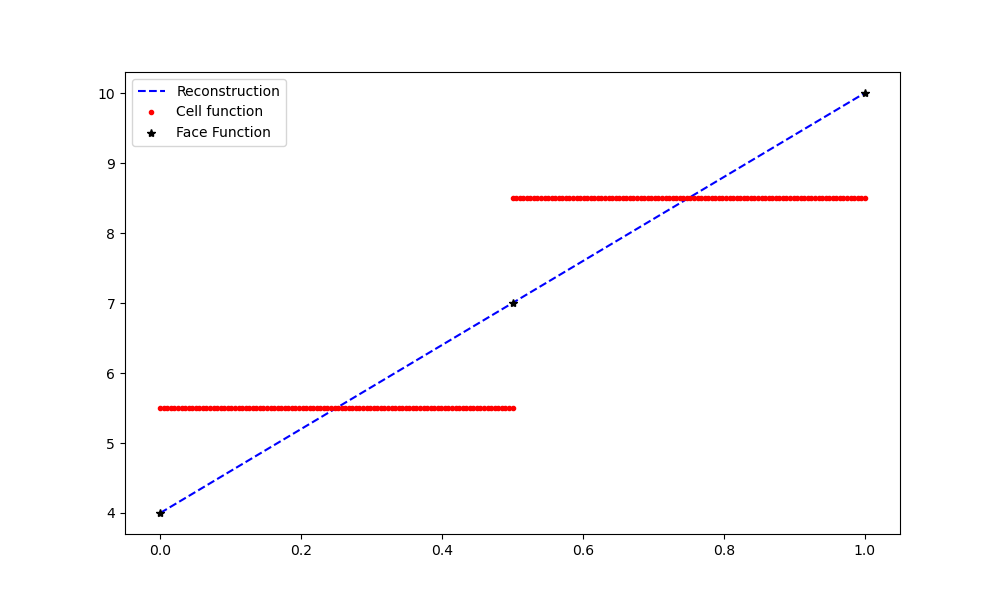
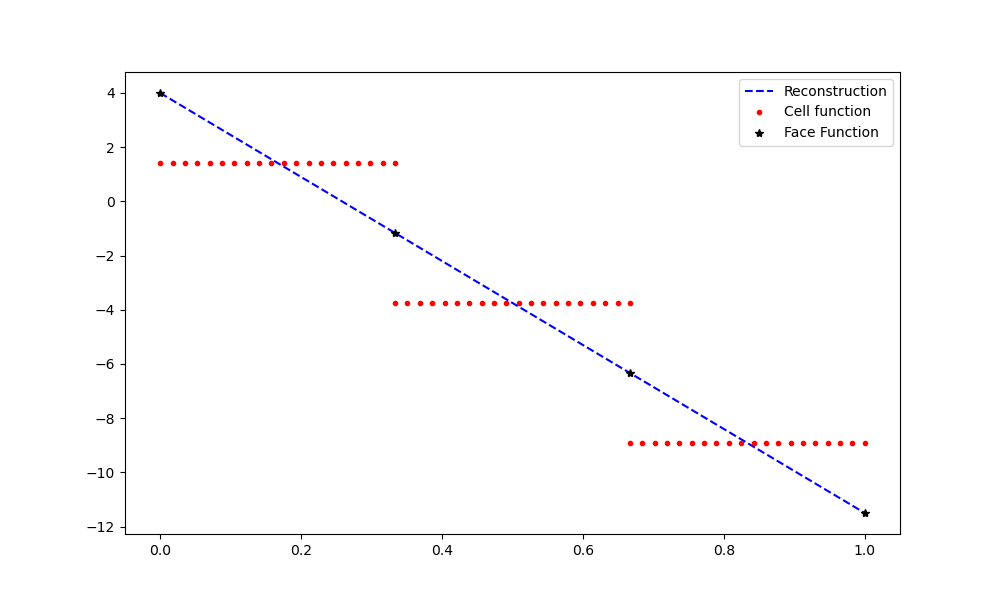
Added Neumann BC + cleaned up

diff --git a/main.py b/main.py
@@ -21,6 +21,12 @@ class ProblemDefinition:
         self.n_dofs = 0
         self.n_dofs_super = 0
 
+        self.Dirichlet_0 = None
+        self.Dirichlet_1 = None
+        self.Neumann_1 = None
+
+        self.Source_func = None
+
     def initialize(self):
         self.compute_element_size()
         self.compute_n_dofs()
@@ -414,19 +420,31 @@ def HHO_Assemble_Stiffness(pd):
     Stiffness = A + S
     return Stiffness
 
-def HHO_Apply_Dirichlet_BC(pd,Stiffness,Dirichlet_0,Dirichlet_1):
+def HHO_Apply_Neumann_BC(pd,rhs_vector):
+    # Enforce Neumann BC at the end    
+    if pd.Neumann_1 is not None:
+        rhs_vector[-1] = pd.Neumann_1
+    return rhs_vector
+
+def HHO_Apply_Dirichlet_BC(pd,Stiffness,rhs_vector):
     # Enforce Dirichlet BC by constraint
-    rhs_vector = np.zeros(pd.n_dofs)
-    if Dirichlet_0 is not None:
+    if pd.Dirichlet_0 is not None:
         dof_0 = get_face_dofs(pd,elem=0)[0]
-        rhs_vector[dof_0] = Dirichlet_0 
+        rhs_vector[dof_0] = pd.Dirichlet_0 
         Stiffness[dof_0,:] = 0 
         Stiffness[dof_0,dof_0] = 1        
-    if Dirichlet_1 is not None:
-        rhs_vector[-1] = Dirichlet_1
+    if pd.Dirichlet_1 is not None:
+        rhs_vector[-1] = pd.Dirichlet_1
         Stiffness[-1,:] = 0
         Stiffness[-1,-1] = 1
     return Stiffness, rhs_vector
+
+def HHO_Apply_Source(pd,rhs_vector):
+    # Enforce Dirichlet BC by constraint
+    if pd.Source_func is not None:
+        #dof_0 = get_face_dofs(pd,elem=0)[0]
+        rhs_vector[0] = pd.Source_func(0) 
+    return rhs_vector
 
 def interpolate(pd,sol,n_sampling,is_super = False):
     # Interpolate on mesh a solution vector (super-convergent or not)
@@ -449,6 +467,22 @@ def interpolate(pd,sol,n_sampling,is_super = False):
     
     return X, V
 
+def Solve_HHO_Problem(pd):
+    # SINGLE RUN WITH NEUMAN OR DIRICHLET BC
+    Rhs = np.zeros(pd.n_dofs)
+    Stiffness = HHO_Assemble_Stiffness(pd)
+    Stiffness, Rhs  = HHO_Apply_Dirichlet_BC(pd, Stiffness, Rhs)
+    Rhs  = HHO_Apply_Neumann_BC(pd, Rhs)
+    Rhs  = HHO_Apply_Source(pd, Rhs)
+
+    sol = np.linalg.solve(Stiffness,Rhs)
+    sol_hho = hho_vector_from_sol(pd,sol)
+    
+    condition_number = np.linalg.cond(Stiffness)
+    print(f"Stiffness matrix condition number: {condition_number}")   
+    
+    return sol, sol_hho
+
 ###############################################################
 ###############################################################
 ###############################################################
@@ -459,15 +493,17 @@ if __name__=='__main__':
     # TEST_ID = 0 --> OPERATORS CHECK (TARGET FUNCTION) ON A SINGLE RUN - FIG 8.9
     # TEST_ID = 1 --> OPERATORS CHECK (TARGET FUNCTION) - CONVERGENCE
 
-    # Dirichlet problem
+    # Solving real 1D problems
     # TEST_ID = 2 --> DIRICHLET PROBLEM, SINGLE RUN
-
-    # To do next: 
-    # Neuman BCs 
-    # volume source
-    # Convergence studies on more complex solutions
+    # TEST_ID = 3 --> DIRICHLET-NEUMANN PROBLEM, SINGLE RUN
+    # TEST_ID = 4 --> DIRICHLET-NEUMANN PROBLEM + SOURCE TERM, SINGLE RUN
     
-    TEST_ID = 2
+    # To do next: 
+    # - volume source
+    # - Convergence studies on more complex solutions
+    # - static condensation 
+    
+    TEST_ID = 4
 
     if TEST_ID == 0:
         pd_single_run = ProblemDefinition()
@@ -521,27 +557,20 @@ if __name__=='__main__':
         plt.savefig("check_operators_convergence.png")
 
     elif TEST_ID == 2:
-
+        # Dirichlet - Dirichlet 
         pd_dir = ProblemDefinition()
         pd_dir.domain_length = 1
         pd_dir.K = 0
-        pd_dir.n_cells = 2
+        pd_dir.n_cells = 3
+        # BCs
+        pd_dir.Dirichlet_0 = 4; 
+        pd_dir.Dirichlet_1 = -11.5
         pd_dir.initialize()
 
-        # Dirichlet BCs
-        D0 = 4; D1 = 10
-        # SINGLE RUN WITH DIRICHLET BC
-        Stiffness = HHO_Assemble_Stiffness(pd_dir)
-        Stiffness, Rhs  = HHO_Apply_Dirichlet_BC(pd_dir, Stiffness, Dirichlet_0=D0, Dirichlet_1=D1)
-
-        sol = np.linalg.solve(Stiffness,Rhs)
-        sol_hho = hho_vector_from_sol(pd_dir,sol)
-        
-        condition_number = np.linalg.cond(Stiffness)
-        print(f"Stiffness matrix condition number: {condition_number}")   
-
-        X, plot_sol     = interpolate(pd_dir,sol,    n_sampling=100,is_super = False)
-        X, plot_sol_hho = interpolate(pd_dir,sol_hho,n_sampling=100,is_super = True )
+        sol, sol_hho = Solve_HHO_Problem(pd_dir) 
+ 
+        X, plot_sol     = interpolate(pd_dir,sol,    n_sampling=20,is_super = False)
+        X, plot_sol_hho = interpolate(pd_dir,sol_hho,n_sampling=20,is_super = True )
         
         X_F = np.linspace(0,pd_dir.domain_length,pd_dir.n_cells+1)
         V_F = sol[pd_dir.n_cells*(pd_dir.K+1):]
@@ -553,5 +582,80 @@ if __name__=='__main__':
         plt.savefig("dirichlet_bc.png")  # Save as PNG
         #plt.show()
 
+        D0 = pd_dir.Dirichlet_0; D1 = pd_dir.Dirichlet_1
+        ref_solution = (D1-D0)*X/pd_dir.domain_length + (D0)
+        error_hho = np.linalg.norm(plot_sol_hho-ref_solution)/np.linalg.norm(ref_solution)*100
+        error_sol = np.linalg.norm(plot_sol-ref_solution)/np.linalg.norm(ref_solution)*100
+        print(f"\ntest #2: Dirichlet problem - relative error (in percent)")
+        print(f"\t - no reconstruction      : {error_sol}")
+        print(f"\t - with HHO reconstruction: {error_hho}")
 
+    elif TEST_ID == 3:
+        # Dirichlet - Neumann 
+        pd_dir_neu = ProblemDefinition()
+        pd_dir_neu.domain_length = 1
+        pd_dir_neu.K = 0
+        pd_dir_neu.n_cells = 10
+        # BCs
+        pd_dir_neu.Dirichlet_0 = -3; 
+        pd_dir_neu.Neumann_1 = 2
+        pd_dir_neu.initialize()
+
+        sol, sol_hho = Solve_HHO_Problem(pd_dir_neu) 
+
+        X, plot_sol     = interpolate(pd_dir_neu,sol,    n_sampling=20,is_super = False)
+        X, plot_sol_hho = interpolate(pd_dir_neu,sol_hho,n_sampling=20,is_super = True )
+        
+        X_F = np.linspace(0,pd_dir_neu.domain_length,pd_dir_neu.n_cells+1)
+        V_F = sol[pd_dir_neu.n_cells*(pd_dir_neu.K+1):]
+        plt.figure(figsize=(10,6))
+        plt.plot(X, plot_sol_hho,'b--',label='Reconstruction')
+        plt.plot(X, plot_sol,'r.',label='Cell function')
+        plt.plot(X_F,V_F,'k*',label='Face Function')
+        plt.legend()
+        plt.savefig("dirichlet-Neumann_bc.png")  # Save as PNG
+        #plt.show()
+
+        D0 = pd_dir_neu.Dirichlet_0; N1 = pd_dir_neu.Neumann_1
+        ref_solution = N1*X/pd_dir_neu.domain_length + (D0)
+        error_hho = np.linalg.norm(plot_sol_hho-ref_solution)/np.linalg.norm(ref_solution)*100
+        error_sol = np.linalg.norm(plot_sol-ref_solution)/np.linalg.norm(ref_solution)*100
+        print(f"\ntest #3: Dirichlet-Neuman problem - relative error (in percent)")
+        print(f"\t - no reconstruction      : {error_sol}")
+        print(f"\t - with HHO reconstruction: {error_hho}")
+
+    elif TEST_ID == 4:
+        # Dirichlet - Neumann 
+        pd_all = ProblemDefinition()
+        pd_all.domain_length = 1
+        pd_all.K = 0
+        pd_all.n_cells = 10
+        # BCs
+        pd_all.Dirichlet_0 = 0; 
+        pd_all.Neumann_1 = 1
+        pd_all.Source_func = lambda x: np.sin(np.pi*x)
+        pd_all.initialize()
+
+        sol, sol_hho = Solve_HHO_Problem(pd_all) 
+
+        X, plot_sol     = interpolate(pd_all,sol,    n_sampling=20,is_super = False)
+        X, plot_sol_hho = interpolate(pd_all,sol_hho,n_sampling=20,is_super = True )
+        
+        X_F = np.linspace(0,pd_all.domain_length,pd_all.n_cells+1)
+        V_F = sol[pd_all.n_cells*(pd_all.K+1):]
+        plt.figure(figsize=(10,6))
+        plt.plot(X, plot_sol_hho,'b--',label='Reconstruction')
+        plt.plot(X, plot_sol,'r.',label='Cell function')
+        plt.plot(X_F,V_F,'k*',label='Face Function')
+        plt.legend()
+        plt.savefig("dirichlet-Neumann_bc.png")  # Save as PNG
+        #plt.show()
+
+        D0 = pd_all.Dirichlet_0; N1 = pd_all.Neumann_1
+        ref_solution = N1*X/pd_all.domain_length + (D0)
+        error_hho = np.linalg.norm(plot_sol_hho-ref_solution)/np.linalg.norm(ref_solution)*100
+        error_sol = np.linalg.norm(plot_sol-ref_solution)/np.linalg.norm(ref_solution)*100
+        print(f"\ntest #3: Dirichlet-Neuman problem - relative error (in percent)")
+        print(f"\t - no reconstruction      : {error_sol}")
+        print(f"\t - with HHO reconstruction: {error_hho}")
  
